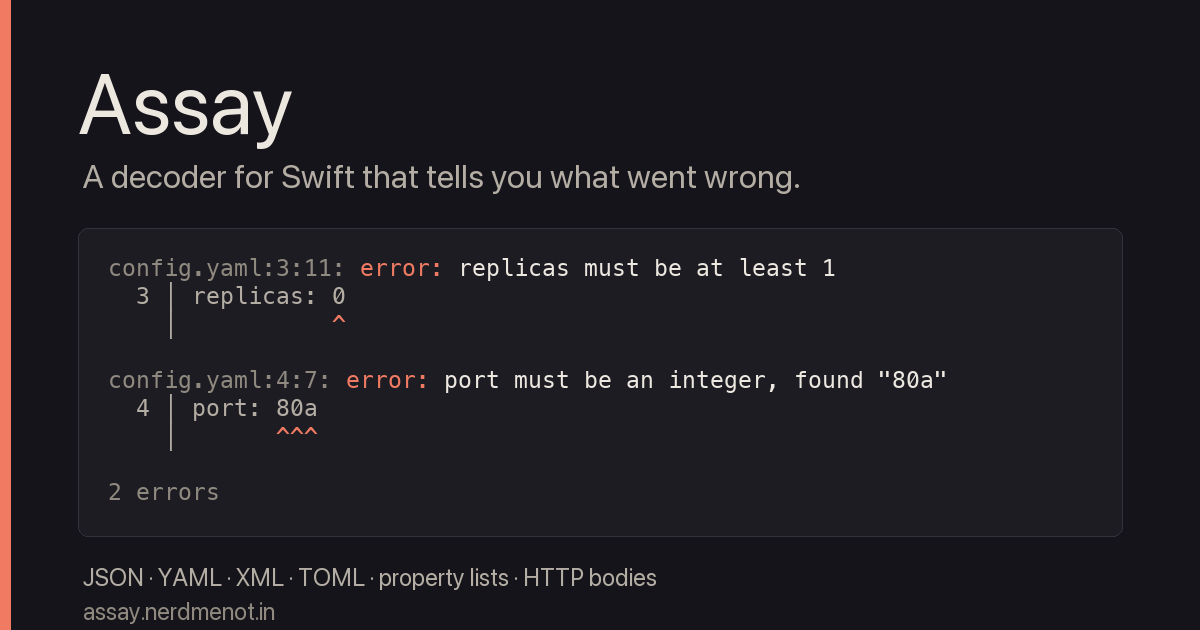
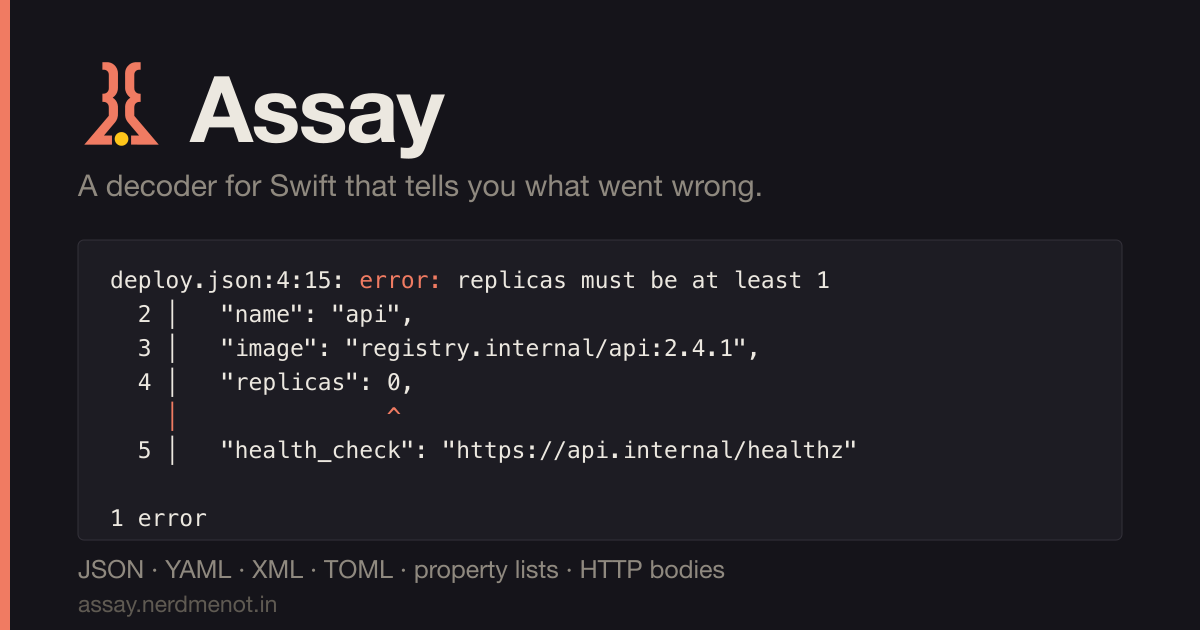
Three loose ends: the arm, the card nobody could rebuild, and gold's job
THE COMPILE-TIME MULTIPLE now names its arm everywhere, which is what the
contradiction actually was. COMPILE-TIME.md section 1 said 5.1x and "that is the
honest number and it belongs in the README"; section 6 said 3.6x and called it
"the claim Assay can defend". Both were describing different things and neither
said so, and the live figure was a third number again.

  default, JSON only          80.8 ms/type      4.22x Codable   <- the one to quote
  formats: opted in           ~113 ms/type      ~5.1x           section 1's table

Section 1's row is the both-bodies arm, so its ratio is what a type parsing YAML
or XML costs — not a README number. Section 6 now quotes 4.2x, from
Benchmarks/RESULTS.md's headline table, and says which arm it is. Section 1 says
which arm it is and that its table is older than the current figure: it puts
Codable at 22.0 ms/type where the harness reads ~19. CLAUDE.md said 3.6x and now
carries both arms with the same warning.

The interesting part is WHY 3.6x was ever plausible: the numerator barely moved
and the denominator fell. Codable got faster, so Assay's multiple went up without
Assay changing. A ratio is two measurements and this one drifted on the other.

THE OG CARD HAD NO GENERATOR. It was a committed PNG, dated 23 September,
predating three versions of the mark — and nothing in the repository could
rebuild it. `bun run og` now does, from the two sources everything else here
[…]

diff --git a/website/scripts/og.ts b/website/scripts/og.ts
@@ -1,0 +1,179 @@
+/**
+ * Builds the Open Graph card — the image every shared link to this site renders.
+ *
+ *     bun run og
+ *
+ * It existed as a committed PNG with no generator at all, which meant it could not be
+ * rebuilt and quietly went stale: the one in the repository predated three versions of the
+ * mark. Now it is derived from the same two sources everything else here is derived from.
+ *
+ *   * The mark comes out of public/icon.svg, so a redrawn logo reaches the card.
+ *   * The error render comes out of src/data/samples.json, which extract.ts fills by
+ *     building the examples against the real library. The old card had the render typed in
+ *     by hand — on a site whose stated promise is that every render on it is real output.
+ *
+ * RASTERISING USES sharp, which arrives with Astro and carries librsvg, so this works on
+ * macOS and in Linux CI with nothing extra to install. rsvg-convert, resvg and magick are
+ * tried after it for anyone running the script outside this package. If none is present the
+ * script says so and leaves the committed PNG alone, the same way extract.ts leaves its
+ * output in place without a Swift toolchain — so a fresh clone still builds.
+ *
+ * qlmanage was the first thing tried here and is not in that list. It renders an SVG onto a
+ * SQUARE canvas at the size you ask for, ignoring the aspect ratio, so a 1200x630 card came
+ * out 1200x1200 with the right-hand third of every line cut off and white padding below.
+ */
+
+import { readFileSync, writeFileSync } from 'node:fs'
+import { join, dirname } from 'node:path'
+import { fileURLToPath } from 'node:url'
+import { spawnSync } from 'node:child_process'
+
+const HERE = dirname(fileURLToPath(import.meta.url))
+const PUBLIC = join(HERE, '..', 'public')
+const SVG_OUT = join(HERE, 'og.svg')
+const PNG_OUT = join(PUBLIC, 'og.png')
+
+const INK = '#15141a'
+const PAPER = '#ece8e0'
+const MUTED = '#8f897f'
+const ACCENT = '#f07b62'
+const AMBER = '#ffc61a'
+
+// ---------------------------------------------------------------------------
+// The mark, lifted from the published icon rather than copied
+// ---------------------------------------------------------------------------
+
+/**
+ * Pulls the three path shapes out of public/icon.svg. Deliberately reads the file instead
+ * of holding its own copy: the mark has been redrawn four times, and a second copy of a
+ * 900-character path is a second thing to forget.
+ */
+function markPaths(): { braces: string[]; bead: string; beadTransform: string } {
+  const svg = readFileSync(join(PUBLIC, 'icon.svg'), 'utf8')
+  const paths = [...svg.matchAll(/<path\b[^>]*\bd="([^"]+)"/g)].map((m) => m[1])
+  if (paths.length < 3) throw new Error('public/icon.svg: expected three paths, found ' + paths.length)
+  const beadTag = svg.match(/<path\b[^>]*transform="([^"]+)"[^>]*\bd="/)
+  return {
+    braces: [paths[0], paths[1]],
+    bead: paths[2],
+    beadTransform: beadTag?.[1] ?? '',
+  }
+}
+
+// ---------------------------------------------------------------------------
+// The card
+// ---------------------------------------------------------------------------
+
+const esc = (s: string) =>
+  s.replace(/&/g, '&amp;').replace(/</g, '&lt;').replace(/>/g, '&gt;').replace(/"/g, '&quot;')
+
+/** One `<tspan>` per line, with the caret line and the `error:` label coloured. */
+function renderLines(render: string, x: number, y: number, lh: number): string {
+  return render
+    .split('\n')
+    .map((line, i) => {
+      const dy = y + i * lh
+      // A caret row is the renderer's own output and the only red in the block besides the
+      // label; colouring it is the single thing that makes this card legible as a thumbnail.
+      const isCaret = /^\s*[│|]?\s*\^+\s*$/.test(line) || /\^/.test(line)
+      const fill = isCaret ? ACCENT : PAPER
+      const parts = line.split(/(error:)/)
+      const spans = parts
+        .map((p) => (p === 'error:' ? `<tspan fill="${ACCENT}">${esc(p)}</tspan>` : esc(p)))
+        .join('')
+      return `<text x="${x}" y="${dy}" fill="${fill}" xml:space="preserve">${spans}</text>`
+    })
+    .join('\n    ')
+}
+
+function card(): string {
+  const data = JSON.parse(readFileSync(join(HERE, '..', 'src', 'data', 'samples.json'), 'utf8'))
+  const render: string = data.renders.hero.render
+  // stats.formats is an array of short names; the card wants the long reading, and
+  // HTTP bodies are an entry point rather than a format so they are not in that array.
+  const names: string[] = Array.isArray(data.stats?.formats) ? data.stats.formats : []
+  const formats = (names.length ? names : ['JSON', 'YAML', 'XML', 'TOML', 'plist'])
+    .map((n: string) => (n === 'plist' ? 'property lists' : n))
+    .join(' · ') + ' · HTTP bodies'
+  const { braces, bead, beadTransform } = markPaths()
+
+  // The mark is drawn in a 1024 box; 0.085 puts it at ~87px, which matches the wordmark's
+  // cap height closely enough to sit on the same baseline.
+  const k = 0.085
+  const markX = 78
+  const markY = 60
+
+  return `<svg xmlns="http://www.w3.org/2000/svg" width="1200" height="630" viewBox="0 0 1200 630">
+  <rect width="1200" height="630" fill="${INK}"/>
+  <rect width="10" height="630" fill="${ACCENT}"/>
+
+  <g transform="translate(${markX} ${markY}) scale(${k})">
+    <path fill="${ACCENT}" d="${braces[0]}"/>
+    <path fill="${ACCENT}" d="${braces[1]}"/>
+    <path fill="${AMBER}" transform="${beadTransform}" d="${bead}"/>
+  </g>
+
+  <text x="190" y="142" fill="${PAPER}" font-family="Bricolage Grotesque, Helvetica Neue, Arial, sans-serif"
+        font-size="92" font-weight="700" letter-spacing="-2">Assay</text>
+  <text x="78" y="196" fill="${MUTED}" font-family="Public Sans, Helvetica Neue, Arial, sans-serif"
+        font-size="30">A decoder for Swift that tells you what went wrong.</text>
+
+  <rect x="78" y="240" width="1044" height="300" rx="6" fill="#1d1c23" stroke="#33313a"/>
+  <g font-family="JetBrains Mono, Menlo, ui-monospace, monospace" font-size="23">
+    ${renderLines(render, 110, 288, 34)}
+  </g>
+
+  <text x="78" y="578" fill="${MUTED}" font-family="Public Sans, Helvetica Neue, Arial, sans-serif"
+        font-size="25">${esc(formats)}</text>
+  <text x="78" y="612" fill="#5f5a52" font-family="Public Sans, Helvetica Neue, Arial, sans-serif"
+        font-size="23">assay.nerdmenot.in</text>
+</svg>
+`
+}
+
+// ---------------------------------------------------------------------------
+// Rasterise with whatever is here
+// ---------------------------------------------------------------------------
+
+function has(cmd: string): boolean {
+  return spawnSync('command', ['-v', cmd], { shell: true, stdio: 'ignore' }).status === 0
+}
+
+async function rasterise(svgPath: string): Promise<string | null> {
+  // sharp first: it is already installed, it honours the SVG's own width and height, and it
+  // is the only one of these that is guaranteed present wherever the site builds.
+  try {
+    const sharp = (await import('sharp')).default
+    await sharp(svgPath, { density: 144 }).resize(1200, 630).png().toFile(PNG_OUT)
+    return 'sharp'
+  } catch {
+    /* fall through to a command-line renderer */
+  }
+  if (has('rsvg-convert')) {
+    const r = spawnSync('rsvg-convert', ['-w', '1200', '-h', '630', '-o', PNG_OUT, svgPath],
+      { stdio: 'inherit' })
+    if (r.status === 0) return 'rsvg-convert'
+  }
+  if (has('resvg')) {
+    const r = spawnSync('resvg', ['-w', '1200', svgPath, PNG_OUT], { stdio: 'inherit' })
+    if (r.status === 0) return 'resvg'
+  }
+  if (has('magick')) {
+    const r = spawnSync('magick', ['-background', 'none', '-density', '144', svgPath,
+      '-resize', '1200x630!', PNG_OUT], { stdio: 'inherit' })
+    if (r.status === 0) return 'magick'
+  }
+  return null
+}
+
+const svg = card()
+writeFileSync(SVG_OUT, svg)
+console.log(`  og: wrote ${SVG_OUT.replace(process.cwd() + '/', '')}`)
+
+const used = await rasterise(SVG_OUT)
+if (used) {
+  console.log(`  og: wrote public/og.png (1200x630) via ${used}`)
+} else {
+  console.log('  og: no rasteriser found (sharp, rsvg-convert, resvg or magick).')
+  console.log('      The SVG is current; public/og.png is left as committed.')
+}

diff --git a/website/src/styles/theme.css b/website/src/styles/theme.css
@@ -211,6 +211,13 @@
   text-transform: uppercase;
   color: var(--assay-muted);
   background: var(--sl-color-gray-7);
+  /* Gold's one real job on the page, and the tables are the right place for it: this site
+     keeps its measurements in tables, and gold is the assay colour — the bead in the mark.
+     It was a brand colour appearing nowhere but the logo and a blockquote rule, which is how
+     a mark ends up looking stuck on rather than belonging to the pages. Not the accent,
+     which means the caret, and not the sidebar's current-page marker, which means here. */
+  border-bottom-color: var(--assay-gold);
+  border-bottom-width: 2px;
 }
 /* Figures line up in columns wherever a table carries counts. */
 .sl-markdown-content td {

diff --git a/docs/COMPILE-TIME.md b/docs/COMPILE-TIME.md
@@ -70,8 +70,17 @@ Against the alternatives, at 100 types × 10 fields on a clean module build:
 | `: Codable` | 2.20 s | 2.7× |
 | `@Schema` (JSON + RawValue bodies) | 11.31 s | **13.6×** |
 
-`@Schema` costs **5.1× what `Codable` costs**. That is the honest number and it belongs in
-the README, not buried here.
+**READ THE ARM BEFORE QUOTING THE RATIO.** The `@Schema` row above is the
+**`formats:`-opted-in** arm — both bodies — so the 5.1× it works out to against `Codable` is
+the cost of a type that parses YAML or XML as well. It is not the figure to put in a README,
+which is what this paragraph used to say.
+
+The **default** arm, JSON only, is what `Benchmarks/RESULTS.md`'s headline table carries and
+what the gate measures: **80.8 ms/type against `Codable`'s ~19 ms, which is 4.22×**. That is
+the number to quote, and §6 quotes it.
+
+The table above is also older than that figure: it puts `Codable` at 22.0 ms/type where the
+harness now reads ~19. Both arms moved; the shape of the finding did not.
 
 ### The finding that matters most
 
@@ -395,9 +404,17 @@ be worth saying.
 
 ## 6. The claim Assay can defend
 
-> `@Schema` costs about 80 ms per type at 10 fields, roughly 3.6× what `Codable` costs, on
+> `@Schema` costs about 81 ms per type at 10 fields, roughly 4.2× what `Codable` costs, on
 > a clean build. For a typical model layer of 40 types that is under 4 seconds. Here is
 > the harness; run it on your own types.
+
+That is the **default, JSON-only** arm, and it is the one `Benchmarks/RESULTS.md`'s headline
+table reports. A type that opts into `@Schema(formats:)` emits a second body and costs about
+5.1× instead — §1 has that arm, and the two are not interchangeable.
+
+It read 3.6× until 2026-10-02, derived from §1's older table rather than from the harness.
+The harness says 4.22×, because `Codable` itself got faster: the numerator barely moved and
+the denominator fell from ~22 ms to ~19.
 
 Checkable, falsifiable, survives CI, and does not decay. The same standard the runtime
 claims are held to.

diff --git a/CLAUDE.md b/CLAUDE.md
@@ -235,7 +235,11 @@ phase 1 without that number.
 
 `docs/COMPILE-TIME.md` is the third authoritative document. The short version:
 
-**`@Schema` costs ~80 ms per type at 10 fields — about 3.6× `Codable`.** The cost model is
+**`@Schema` costs ~81 ms per type at 10 fields — about 4.2× `Codable`**, JSON only; a type
+that opts into `@Schema(formats:)` emits a second body and costs ~5.1× instead. **Quote the
+arm.** This said 3.6× until 2026-10-02, derived from `COMPILE-TIME.md` §1's older table
+rather than from the harness; `Benchmarks/RESULTS.md`'s headline table reads 4.22×, because
+`Codable` itself got faster (~22 ms/type → ~19). The cost model is
 `9 ms fixed per type + 7.3 ms per field`, so it scales with **generated body size, not with the
 number of expansions**. The plugin round trip is the small term.
 
